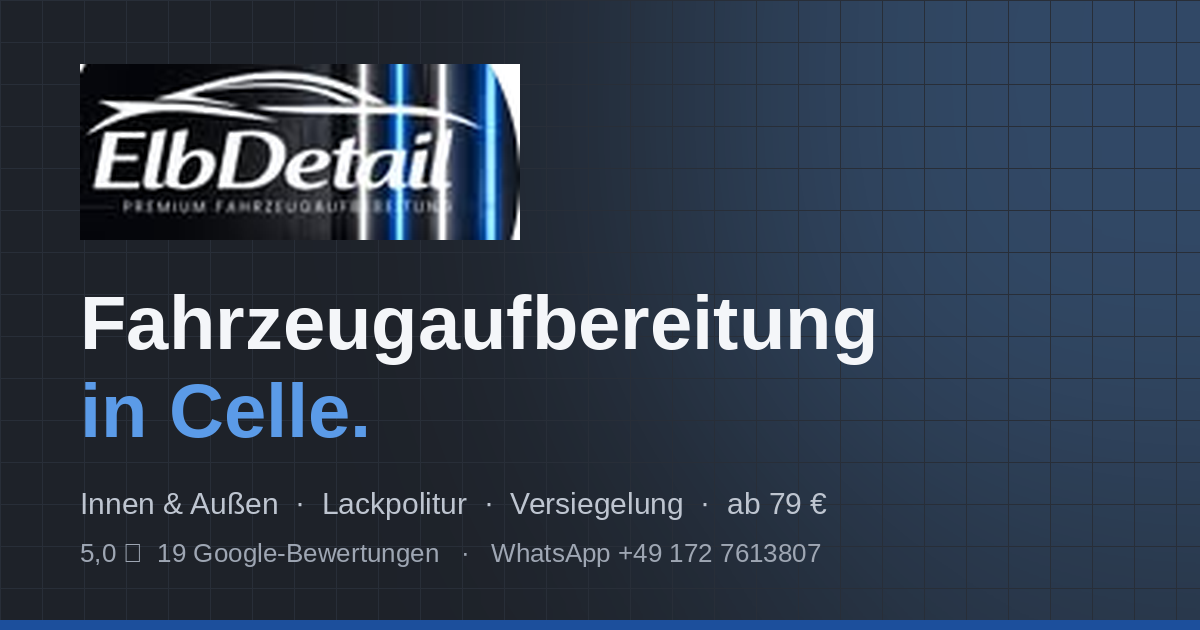
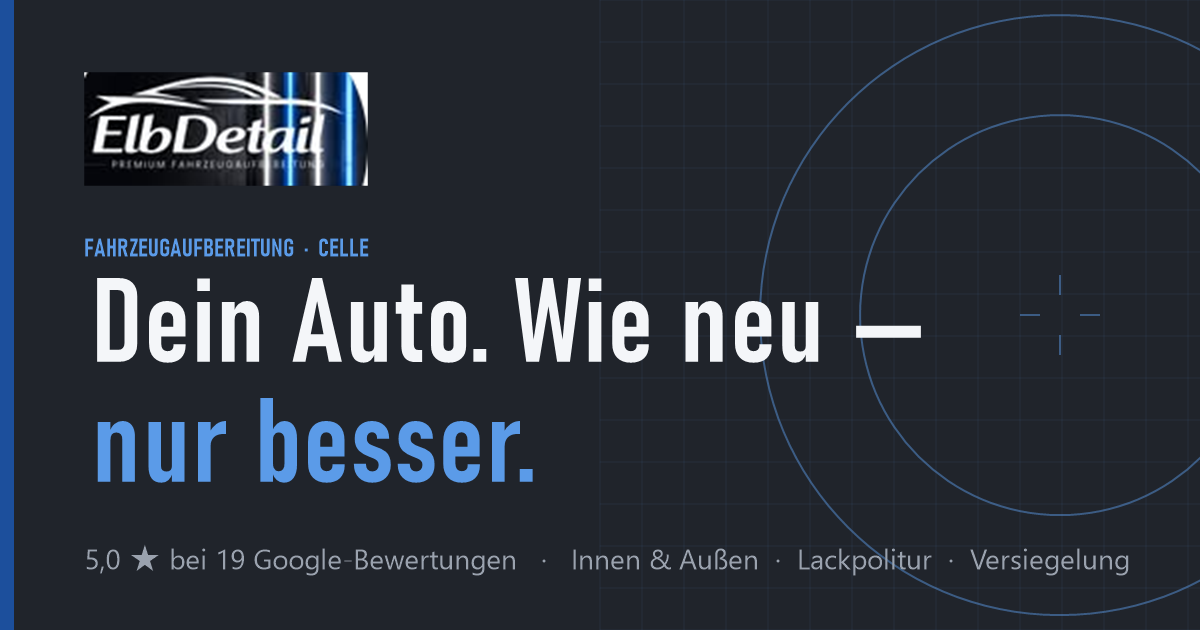
Verbesserungen aus der Artefakt-Fassung übernehmen
- Touch-Flächen mindestens 44 px, kleinste Schriftgrößen angehoben
- Kein globales Smooth-Scrolling, sanftes Scrollen respektiert
  "Bewegung reduzieren"
- Inline-Stile durch Klassen ersetzt
- App-Icons 192/512 (maskable) im Manifest, neues Vorschaubild

Claude-Session: https://claude.ai/code/session_01BQ6q3QPdw9qEPbvjPNawTr

diff --git a/static/styles.css b/static/styles.css
@@ -49,7 +49,8 @@
 @font-face { font-family: "Oswald"; font-style: normal; font-weight: 700; font-display: swap; src: url("fonts/oswald-700.woff2") format("woff2"); }
 
 *, *::before, *::after { box-sizing: border-box; }
-html { -webkit-text-size-adjust: 100%; text-size-adjust: 100%; scroll-behavior: smooth; }
+/* Kein globales scroll-behavior: smooth – Anker beim Laden springen sofort, sanftes Scrollen übernimmt script.js nur bei Klick */
+html { -webkit-text-size-adjust: 100%; text-size-adjust: 100%; }
 a, button, summary, label, select, input, textarea { touch-action: manipulation; }
 a, button, summary { -webkit-tap-highlight-color: rgba(28, 79, 156, 0.18); }
 @media (prefers-reduced-motion: reduce) {
@@ -251,7 +252,9 @@ html.kb-open body { padding-bottom: 0; }
   .btn-line:hover { border-color: rgba(255,255,255,0.5); background: rgba(255,255,255,0.07); }
   .btn-line-light:hover { border-color: var(--blue); background: var(--blue-soft); }
 }
-.text-link { color: var(--blue); font-weight: 700; text-decoration: none; }
+/* Inline-Textlinks: vertikales Padding vergrößert die Touch-Fläche, ohne den Zeilenfluss zu ändern */
+.text-link { color: var(--blue); font-weight: 700; text-decoration: none; padding-block: 10px; }
+.section-head--tight { margin-bottom: 28px; }
 .text-link:hover { text-decoration: underline; }
 
 /* ==========================================================================
@@ -305,8 +308,8 @@ h2.display { font-size: clamp(2.1rem, 5vw, 3.3rem); color: var(--ink); }
 .hero-copy { display: grid; gap: 22px; }
 .hero-kicker { display: flex; flex-wrap: wrap; gap: 10px 16px; align-items: center; }
 .hero-badge {
-  display: inline-flex; align-items: center; gap: 8px;
-  padding: 7px 12px 7px 9px; border-radius: 999px;
+  display: inline-flex; align-items: center; gap: 8px; min-height: 44px;
+  padding: 7px 14px 7px 11px; border-radius: 999px;
   background: rgba(255,255,255,0.07); border: 1px solid rgba(255,255,255,0.12);
   font-size: 0.82rem; font-weight: 700; color: var(--on-anthracite);
 }
@@ -341,7 +344,7 @@ h2.display { font-size: clamp(2.1rem, 5vw, 3.3rem); color: var(--ink); }
 }
 .quote-head { display: flex; justify-content: space-between; align-items: center; gap: 12px; }
 .quote-head h2 { font-size: 1.35rem; color: var(--ink); }
-.quote-head span { font-size: 0.74rem; font-weight: 800; letter-spacing: 0.1em; text-transform: uppercase; color: var(--blue); background: var(--blue-soft); padding: 5px 10px; border-radius: 999px; white-space: nowrap; }
+.quote-head span { font-size: 0.76rem; font-weight: 800; letter-spacing: 0.1em; text-transform: uppercase; color: var(--blue); background: var(--blue-soft); padding: 5px 10px; border-radius: 999px; white-space: nowrap; }
 .quote-field { display: grid; gap: 8px; }
 .quote-field > span { font-weight: 800; font-size: 0.84rem; color: var(--ink); }
 .seg { display: grid; grid-template-columns: repeat(3, 1fr); gap: 6px; }
@@ -353,7 +356,7 @@ h2.display { font-size: clamp(2.1rem, 5vw, 3.3rem); color: var(--ink); }
   font-size: 0.86rem; font-weight: 700; text-align: center; cursor: pointer; line-height: 1.25; min-width: 0; overflow-wrap: anywhere;
   transition: border-color 0.15s ease, background-color 0.15s ease, color 0.15s ease;
 }
-.seg span small { font-weight: 500; color: var(--muted); font-size: 0.72rem; }
+.seg span small { font-weight: 500; color: var(--muted); font-size: 0.78rem; }
 .seg input:checked + span { border-color: var(--blue); background: var(--blue-soft); color: var(--blue-deep); }
 .seg input:focus-visible + span { outline: 3px solid var(--focus); outline-offset: 2px; }
 .seg.pk { grid-template-columns: 1fr; gap: 6px; }
@@ -428,7 +431,7 @@ h2.display { font-size: clamp(2.1rem, 5vw, 3.3rem); color: var(--ink); }
 }
 .brand-strip svg { width: 22px; height: 22px; flex: none; color: var(--blue); }
 .brand-strip p { color: var(--muted); font-size: 0.92rem; flex: 1 1 320px; }
-.brand-strip a { flex: none; color: var(--blue); font-weight: 700; text-decoration: none; white-space: nowrap; }
+.brand-strip a { flex: none; display: inline-flex; align-items: center; min-height: 44px; color: var(--blue); font-weight: 700; text-decoration: none; white-space: nowrap; }
 .brand-strip a:hover { text-decoration: underline; }
 
 /* ==========================================================================
@@ -473,7 +476,7 @@ h2.display { font-size: clamp(2.1rem, 5vw, 3.3rem); color: var(--ink); }
 .extras h3 { font-size: 1.25rem; color: var(--ink); }
 .extras ul { list-style: none; display: flex; flex-wrap: wrap; gap: 8px; }
 .extras li { padding: 9px 14px; border-radius: 999px; border: 1px solid var(--line); background: var(--bg); font-size: 0.88rem; font-weight: 700; color: var(--ink); }
-.extras li small { font-weight: 500; color: var(--muted); }
+.extras li small { font-weight: 500; color: var(--muted); font-size: 0.8rem; }
 
 /* Vergleichstabelle (ausklappbar) */
 .compare { margin-top: 28px; border: 1px solid var(--line); border-radius: var(--radius-m); background: var(--bg); }
@@ -512,7 +515,7 @@ h2.display { font-size: clamp(2.1rem, 5vw, 3.3rem); color: var(--ink); }
   background-size: 22px; background-repeat: no-repeat; background-position: center;
 }
 .ba input[type="range"] { position: absolute; inset: 0; width: 100%; height: 100%; opacity: 0; margin: 0; cursor: ew-resize; z-index: 3; }
-.ba-tag { position: absolute; top: 12px; z-index: 2; padding: 5px 10px; border-radius: 999px; font-size: 0.72rem; font-weight: 800; letter-spacing: 0.08em; text-transform: uppercase; background: rgba(0,0,0,0.55); color: #fff; backdrop-filter: blur(4px); }
+.ba-tag { position: absolute; top: 12px; z-index: 2; padding: 5px 10px; border-radius: 999px; font-size: 0.76rem; font-weight: 800; letter-spacing: 0.08em; text-transform: uppercase; background: rgba(0,0,0,0.55); color: #fff; backdrop-filter: blur(4px); }
 .ba-tag.l { left: 12px; } .ba-tag.r { right: 12px; background: var(--blue); }
 .ba-caption { position: absolute; left: 0; right: 0; bottom: 0; z-index: 2; padding: 32px 16px 14px; background: linear-gradient(to top, rgba(0,0,0,0.8), transparent); color: #fff; font-size: 0.9rem; font-weight: 700; pointer-events: none; }
 .ba-caption span { display: block; font-weight: 400; color: var(--muted-on-anthracite); font-size: 0.8rem; }
@@ -600,7 +603,7 @@ h2.display { font-size: clamp(2.1rem, 5vw, 3.3rem); color: var(--ink); }
 .contact-info { background: var(--anthracite); color: var(--on-anthracite); padding: clamp(28px, 4vw, 44px); display: grid; gap: 22px; align-content: start; }
 .info-row { display: flex; gap: 14px; align-items: flex-start; }
 .info-row svg { width: 20px; height: 20px; flex: none; color: var(--blue-bright); margin-top: 3px; }
-.info-row a { font-weight: 700; text-decoration: none; color: var(--on-anthracite); }
+.info-row a { font-weight: 700; text-decoration: none; color: var(--on-anthracite); padding-block: 10px; margin-block: -10px; }
 .info-row a:hover { color: var(--blue-bright); }
 .info-row span { color: var(--on-anthracite); font-weight: 700; }
 .info-row p { color: var(--muted-on-anthracite); font-size: 0.9rem; }
@@ -622,7 +625,7 @@ h2.display { font-size: clamp(2.1rem, 5vw, 3.3rem); color: var(--ink); }
 @media (min-width: 520px) { .two-col { grid-template-columns: 1fr 1fr; } }
 .consent-row { display: flex; gap: 10px; align-items: flex-start; font-size: 0.85rem; color: var(--muted); }
 .consent-row input { width: 20px; height: 20px; margin-top: 2px; flex: none; accent-color: var(--blue); }
-.consent-row a { color: var(--ink); text-decoration: underline; }
+.consent-row a { color: var(--ink); text-decoration: underline; padding-block: 10px; }
 .form-actions { display: grid; gap: 10px; }
 @media (min-width: 520px) { .form-actions { grid-template-columns: 1.2fr 1fr; } }
 .form-status { font-size: 0.9rem; font-weight: 700; min-height: 1.2em; }
@@ -632,6 +635,7 @@ h2.display { font-size: clamp(2.1rem, 5vw, 3.3rem); color: var(--ink); }
 
 .map-wrap { overflow: hidden; border: 1px solid var(--line); border-radius: var(--radius-m); margin-top: 40px; }
 .map-placeholder { aspect-ratio: 16/7; display: grid; place-items: center; gap: 14px; background: var(--soft); text-align: center; padding: 24px; }
+.map-placeholder svg { color: var(--muted); width: 34px; height: 34px; }
 .map-placeholder p { max-width: 48ch; color: var(--muted); font-size: 0.9rem; }
 .map-frame { width: 100%; aspect-ratio: 16/7; border: 0; display: block; }
 
@@ -666,7 +670,7 @@ h2.display { font-size: clamp(2.1rem, 5vw, 3.3rem); color: var(--ink); }
 .footer-about { max-width: 36ch; font-size: 0.9rem; }
 .footer-bottom { margin-top: 46px; padding-top: 22px; border-top: 1px solid var(--anthracite-line); display: flex; flex-wrap: wrap; gap: 12px; justify-content: space-between; font-size: 0.85rem; }
 .footer-bottom ul { list-style: none; display: flex; gap: 18px; flex-wrap: wrap; }
-.footer-bottom a { color: var(--muted-on-anthracite); text-decoration: none; }
+.footer-bottom a { display: inline-flex; align-items: center; min-height: 44px; color: var(--muted-on-anthracite); text-decoration: none; }
 .footer-bottom a:hover { color: var(--on-anthracite); }
 
 /* ==========================================================================
@@ -692,7 +696,7 @@ h2.display { font-size: clamp(2.1rem, 5vw, 3.3rem); color: var(--ink); }
 .breadcrumb { font-size: 0.82rem; color: var(--muted-on-anthracite); }
 .breadcrumb ol { list-style: none; display: flex; flex-wrap: wrap; gap: 6px; }
 .breadcrumb li + li::before { content: "/"; margin-right: 6px; opacity: 0.5; }
-.breadcrumb a { color: var(--muted-on-anthracite); text-decoration: none; }
+.breadcrumb a { color: var(--muted-on-anthracite); text-decoration: none; padding-block: 12px; }
 .breadcrumb a:hover { color: var(--on-anthracite); }
 .breadcrumb [aria-current] { color: var(--on-anthracite); font-weight: 700; }
 
@@ -713,8 +717,8 @@ h2.display { font-size: clamp(2.1rem, 5vw, 3.3rem); color: var(--ink); }
 .aside-card p { font-size: 0.94rem; color: var(--muted); }
 .aside-card.dark p { color: var(--muted-on-anthracite); }
 .aside-card .btn { width: 100%; }
-.aside-card ul { list-style: none; display: grid; gap: 8px; }
-.aside-card li a { color: var(--blue); font-weight: 700; text-decoration: none; font-size: 0.94rem; }
+.aside-card ul { list-style: none; display: grid; gap: 2px; }
+.aside-card li a { display: inline-flex; align-items: center; min-height: 44px; color: var(--blue); font-weight: 700; text-decoration: none; font-size: 0.94rem; }
 .aside-card li a:hover { text-decoration: underline; }
 
 .steps { counter-reset: step; display: grid; gap: 14px; }
@@ -747,6 +751,9 @@ h2.display { font-size: clamp(2.1rem, 5vw, 3.3rem); color: var(--ink); }
 .back-home { display: inline-flex; align-items: center; gap: 8px; margin-bottom: 26px; font-weight: 800; text-decoration: none; color: var(--blue); }
 
 .notfound { min-height: 60vh; display: grid; place-items: center; text-align: center; padding-block: calc(var(--header-h) + 60px) 80px; }
+.notfound-inner { display: grid; gap: 18px; justify-items: center; }
+.notfound-text { color: var(--muted); max-width: 50ch; }
+.legal-note { margin-top: 30px; }
 .notfound .code { font-family: var(--font-display); font-size: clamp(5rem, 18vw, 10rem); line-height: 0.9; color: var(--blue); }
 
 /* ==========================================================================
@@ -801,7 +808,9 @@ h2.display { font-size: clamp(2.1rem, 5vw, 3.3rem); color: var(--ink); }
   .map-frame { aspect-ratio: 4 / 3; }
   .cta-band { padding: 34px 20px; }
   .site-footer { padding-block: 48px 24px; }
-  .footer-grid a { display: flex; align-items: center; min-height: 40px; }
+  .footer-grid ul a { display: flex; align-items: center; min-height: 44px; }
+  /* Adresszeilen: Touch-Fläche 44px, negativer Rand hält den Zeilenabstand gleichmäßig */
+  .footer-grid address a { display: inline-flex; align-items: center; min-height: 44px; margin-block: -9px; }
   .footer-grid ul { gap: 0; }
   .footer-bottom { flex-direction: column; gap: 6px; margin-top: 28px; }
   .legal-main h1 { font-size: 2.3rem; }

diff --git a/static/script.js b/static/script.js
@@ -65,7 +65,12 @@
     if (!link || e.defaultPrevented) return;
     var id = link.getAttribute("href").slice(1);
     var t = id ? document.getElementById(id) : null;
-    if (t) { e.preventDefault(); t.scrollIntoView({ block: "start", behavior: "smooth" }); history.pushState(null, "", "#" + id); focusTarget(t); }
+    if (t) {
+      e.preventDefault();
+      var reduceMotion = window.matchMedia && window.matchMedia("(prefers-reduced-motion: reduce)").matches;
+      t.scrollIntoView({ block: "start", behavior: reduceMotion ? "auto" : "smooth" });
+      history.pushState(null, "", "#" + id); focusTarget(t);
+    }
   });
 
   var header = $(".site-header");

diff --git a/build/pages.py b/build/pages.py
@@ -257,7 +257,7 @@ def build_home(site, write):
   <section id="warum" class="dark on-dark" aria-labelledby="warum-h">
     <div class="container why-grid">
       <div class="reveal">
-        <div class="section-head" style="margin-bottom:28px">
+        <div class="section-head section-head--tight">
           <p class="eyebrow">Warum ElbDetail</p>
           <h2 id="warum-h" class="display">Handarbeit, Fachwissen und ein Preis, der vorher feststeht.</h2>
           <p>ElbDetail ist ein inhabergeführter Fachbetrieb für Fahrzeugaufbereitung in Celle. Kein Franchise, keine Waschstraße: Jedes Fahrzeug wird persönlich und von Hand aufbereitet.</p>
@@ -300,7 +300,7 @@ def build_home(site, write):
 
   <section id="bewertungen" class="soft" aria-labelledby="bewertungen-h">
     <div class="container">
-      <div class="section-head reveal" style="margin-bottom:28px;">
+      <div class="section-head section-head--tight reveal">
         <p class="eyebrow">Bewertungen</p>
         <h2 id="bewertungen-h" class="display">Was Kund:innen aus Celle sagen.</h2>
       </div>
@@ -521,7 +521,7 @@ def build_legal(site, write):
     <p>Wir setzen keine automatisierte Entscheidungsfindung oder Profiling im Sinne des Art. 22 DSGVO ein.</p>
     <h2>14. Verschlüsselung</h2>
     <p>Diese Seite nutzt eine TLS-Verschlüsselung, erkennbar an „https://“ in der Adresszeile.</p>
-    <p class="legal-updated" style="margin-top:30px;">Hinweis für den Seitenbetreiber: Diese Datenschutzerklärung ist eine sorgfältig erstellte Vorlage für den Betrieb auf eigenem Server. Bitte Platzhalter im Verwaltungsportal unter „Inhalte → Grunddaten → Rechtliches“ ausfüllen und vor Veröffentlichung rechtlich prüfen lassen.</p>
+    <p class="legal-updated legal-note">Hinweis für den Seitenbetreiber: Diese Datenschutzerklärung ist eine sorgfältig erstellte Vorlage für den Betrieb auf eigenem Server. Bitte Platzhalter im Verwaltungsportal unter „Inhalte → Grunddaten → Rechtliches“ ausfüllen und vor Veröffentlichung rechtlich prüfen lassen.</p>
 '''
     for fname, title, desc, h1, sub, content in [
         ("impressum.html", "Impressum | ElbDetail Fahrzeugaufbereitung Celle", "Impressum von ElbDetail, Fahrzeugaufbereitung in Celle, Lachtehäuser Straße 1.", "Impressum", "Angaben gemäß § 5 Digitale-Dienste-Gesetz (DDG)", imp),
@@ -543,10 +543,10 @@ def build_legal(site, write):
 def build_404(site, write):
     body = f'''
 <main id="main" class="notfound">
-  <div class="container" style="display:grid;gap:18px;justify-items:center">
+  <div class="container notfound-inner">
     <span class="code">404</span>
     <h1>Diese Seite gibt es nicht (mehr).</h1>
-    <p style="color:var(--muted);max-width:50ch">Vielleicht ein Tippfehler im Link. Alles zu Fahrzeugaufbereitung in Celle findest du auf der Startseite.</p>
+    <p class="notfound-text">Vielleicht ein Tippfehler im Link. Alles zu Fahrzeugaufbereitung in Celle findest du auf der Startseite.</p>
     <div class="hero-actions">
       <a class="btn btn-primary" href="/">Zur Startseite</a>
       <a class="btn btn-line-light" href="/termin.html">Termin anfragen</a>

diff --git a/build/seo.py b/build/seo.py
@@ -207,5 +207,7 @@ def rss(site):
 def manifest(site):
     return json.dumps({"name": site.s["name"] + " – Fahrzeugaufbereitung " + site.s["address"]["city"], "short_name": site.s["name"],
                        "start_url": "/", "display": "browser", "background_color": "#1e2229", "theme_color": "#1e2229", "lang": "de",
-                       "icons": [{"src": "/apple-touch-icon.png", "sizes": "180x180", "type": "image/png"},
+                       "icons": [{"src": "/icon-192.png", "sizes": "192x192", "type": "image/png", "purpose": "any"},
+                                 {"src": "/icon-512.png", "sizes": "512x512", "type": "image/png", "purpose": "any maskable"},
+                                 {"src": "/apple-touch-icon.png", "sizes": "180x180", "type": "image/png"},
                                  {"src": "/favicon.svg", "sizes": "any", "type": "image/svg+xml"}]}, ensure_ascii=False, indent=2) + "\n"
